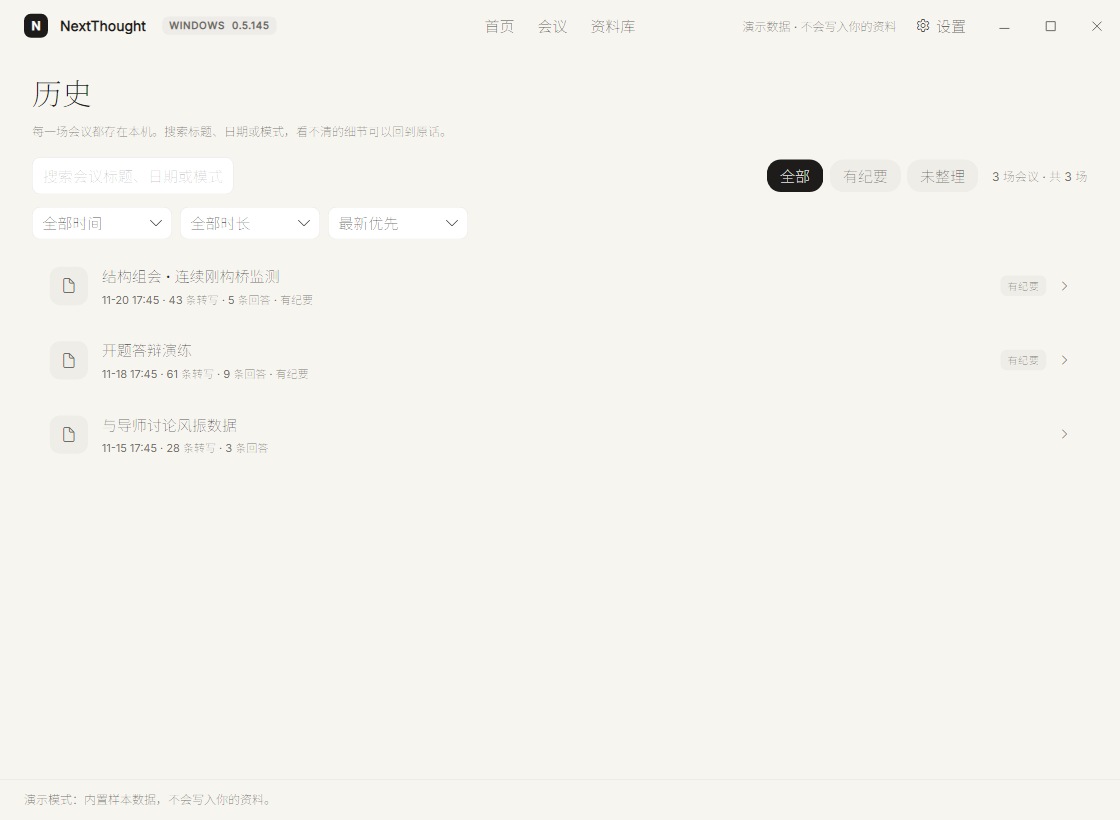
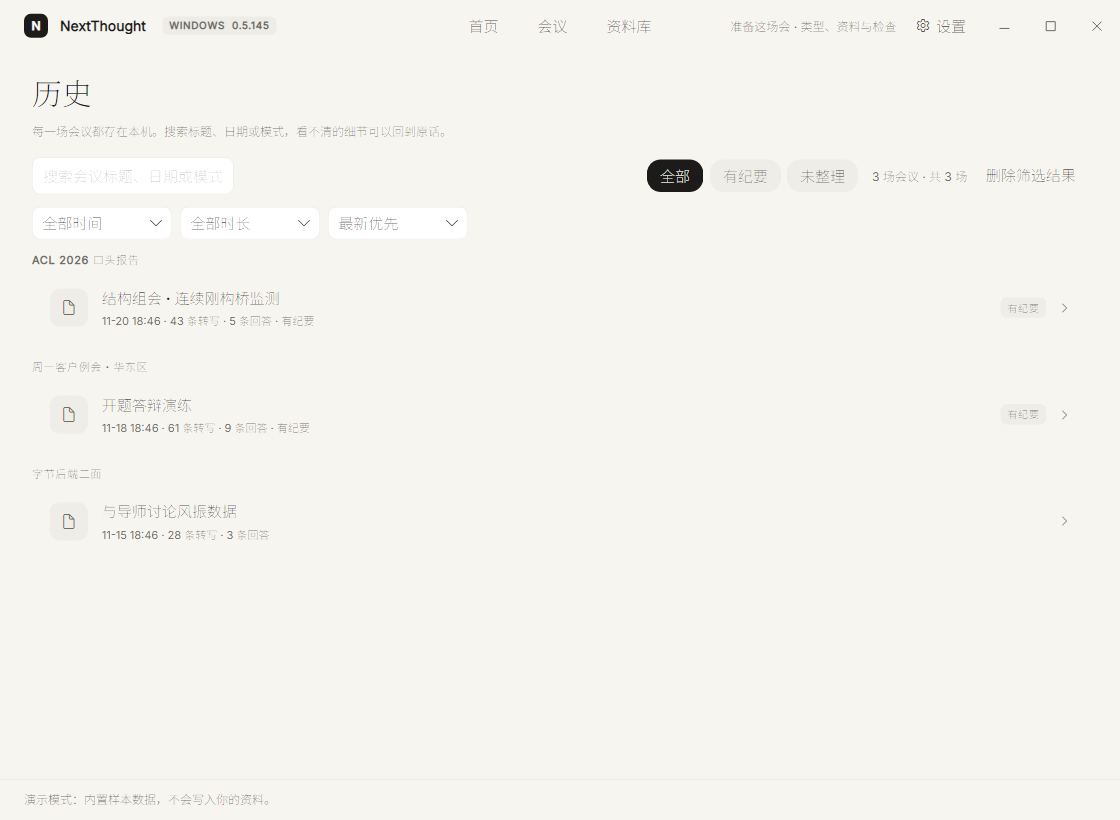
E18: group history rows by series
- HistoryGroupRow built from filtered history; rows live in a shared DataTemplate
- group headers show series name; ungrouped sessions fall back to 未归入系列

diff --git a/Windows/tests/NextThought.Tests/SelfTestStructureTests.cs b/Windows/tests/NextThought.Tests/SelfTestStructureTests.cs
@@ -89,6 +89,17 @@ public sealed class SelfTestStructureTests
 
 
 
+
+    [Fact]
+    public void HistoryIsGroupedBySeries()
+    {
+        var xaml = File.ReadAllText(Path.Combine(Root(), "Windows", "src", "NextThought.Desktop", "Views", "HistoryView.axaml"));
+        Assert.Contains("HistoryGroups", xaml);
+        Assert.Contains("HistoryGroupRow", xaml);
+        var state = File.ReadAllText(Path.Combine(Root(), "Windows", "src", "NextThought.Desktop", "AppState.StructuredNotes.cs"));
+        Assert.Contains("HistoryGroups.Add", state);
+    }
+
     [Fact]
     public void HistoryHasFilteredBatchDelete()
     {

diff --git a/Windows/src/NextThought.Desktop/AppState.StructuredNotes.cs b/Windows/src/NextThought.Desktop/AppState.StructuredNotes.cs
@@ -521,6 +521,10 @@ public partial class AppState
         };
         FilteredHistory.Clear();
         foreach (var row in rows) FilteredHistory.Add(row);
+        HistoryGroups.Clear();
+        foreach (var group in FilteredHistory.GroupBy(row =>
+                     workspace.SeriesOfSession(row.Meta.Id.ToString())?.Name ?? "未归入系列"))
+            HistoryGroups.Add(new HistoryGroupRow(group.Key, group.ToList()));
         OnPropertyChanged(nameof(HistorySummary));
         OnPropertyChanged(nameof(IsHistoryViewEmpty));
     }

diff --git a/Windows/src/NextThought.Desktop/RecentMeetingRow.cs b/Windows/src/NextThought.Desktop/RecentMeetingRow.cs
@@ -19,6 +19,10 @@ public sealed record SeriesRow(string Id, string Name, int Count, int LessonCoun
     public string Preview => LastLesson.Length > 0 ? LastLesson : LastTitle;
 }
 
+
+/// <summary>One history section when meetings are grouped by series.</summary>
+public sealed record HistoryGroupRow(string Name, IReadOnlyList<RecentMeetingRow> Rows);
+
 public sealed record RecentMeetingRow(SessionMeta Meta)
 {
     public string Title => string.IsNullOrWhiteSpace(Meta.Title) ? UiText.T("未命名会议") : Meta.Title;

diff --git a/Windows/src/NextThought.Desktop/AppState.Archive.cs b/Windows/src/NextThought.Desktop/AppState.Archive.cs
@@ -46,6 +46,8 @@ public partial class AppState
 
     partial void OnHistorySortChanged(string value) => ApplyHistoryFilter();
 
+    public System.Collections.ObjectModel.ObservableCollection<HistoryGroupRow> HistoryGroups { get; } = [];
+
     public bool IsHistoryEmpty => History.Count == 0;
 
     [RelayCommand(CanExecute = nameof(CanExport))]

diff --git a/Windows/PORTING_STATUS.md b/Windows/PORTING_STATUS.md
@@ -1,87 +1,87 @@
 ## 2026-11-20 · 0.5.145 · E18（部分）
 改动：`SessionStore.DeleteAsync` 删除会议归档目录；`AppState.DeleteSessionAsync` 同步从 History/HomeRecent/Workspace 系列中移除；历史行右键菜单新增「删除会议」。测试：`DeletingASessionRemovesItsFolderAndIsIdempotent`、`HistoryRowsOfferSessionDeletion`。
-测试：Core **872/872**，NextThought.Tests **171/171**。
-状态：E18「未做」。已做单条删除（右键菜单命令）与 `SessionStore.RenameAsync`/`AppState.RenameSessionAsync` API；历史行右键已可重命名（RenameSessionDialog）；顶部有「删除筛选结果」批量删除（按当前筛选/搜索，无二次确认）；缺按内容搜索/命中导航、系列分组、归档概览、回答列表、截图、会议操作菜单。
+测试：Core **872/872**，NextThought.Tests **172/172**。
+状态：E18「未做」。已做单条删除（右键菜单命令）与 `SessionStore.RenameAsync`/`AppState.RenameSessionAsync` API；历史行右键已可重命名（RenameSessionDialog）；顶部有「删除筛选结果」批量删除（按当前筛选/搜索，无二次确认）；历史已按系列分组（组头+组内会议）；缺按内容搜索/命中导航、归档概览、回答列表、截图、会议操作菜单。
 未解决：删除确认 UI 仍是右键直删，没有二次确认。
 
 ## 2026-11-20 · 0.5.145 · E2（部分）
 改动：新增 `AppSection.Prepare` 与 `Views/PrepareView.axaml`。首页「先准备资料」进入准备页；页面含类型/标题、系列/资料摘要、音频/模型检查、导入 WAV/开始记录。新增 `PreparePageIsHosted` 测试。
-测试：Core **872/872**，NextThought.Tests **171/171**。
+测试：Core **872/872**，NextThought.Tests **172/172**。
 状态：E2「已实现、未验证」。准备页有类型选择、系列选择与四项带入、系列简报、资料列表/洞察、独立检查卡、固定开始条；开始会议时构建 MeetingPlan 并应用 Carry 到系列副本。未验证：与 Mac PrepareView 的逐项视觉/交互对照、资料文件行操作。
 证据：`Windows/validation/screens/prepare/`。
 
 ## 2026-11-20 · 0.5.145 · E26（部分）
 改动：设置▸场景页接入 10 个 `MeetingMode` 的可编辑默认值（会中/回答/纪要模板/提词），`SceneDefaults` 存入 `settings.json`；行内按钮循环选项并即时保存。新增 `SceneSettingsRowsAreWired` 测试。
-测试：Core **872/872**，NextThought.Tests **171/171**。
+测试：Core **872/872**，NextThought.Tests **172/172**。
 状态：E26「已实现、未验证」。场景默认值已驱动开始会议（自动回答、回答详略、纪要模板、提词宽度）；设置按钮弹出快速面板（状态/自动回答/字幕译文/提词宽度/全部设置）；证据 `validation/screens/quick-settings.png`。限制：选项值仍是中文标签；快速面板只覆盖 Mac 面板的一部分。
 证据：`Windows/validation/screens/settings-pages/settings-scene-light.png`。
 
 ## 2026-11-20 · 0.5.145 · E25（部分）
 改动：设置覆盖层加入 184 宽左侧分栏（场景/回答与资料/提词与教练/纪要/通用/高级），点击用锚点滚到对应设置分组；新增 `SettingsRailHasSixGroups` 测试。
-测试：Core **872/872**，NextThought.Tests **171/171**。
+测试：Core **872/872**，NextThought.Tests **172/172**。
 状态：E25「已实现、未验证」。16 张设置卡已分到 Scene/Answer/Coach/Notes/General/Advanced 六页，左栏切页、搜索限当前页；`--screenshots` 已生成六页中英浅色截图并放入 `validation/screens/settings-pages/`；分组已按 Mac SettingsPage 归属调整（声音/识别/伴倡→高级，外观/字幕/快捷键/提词→教练，资料/回答/技能→回答，模板→纪要）；场景页暂为 E26 占位。
 证据：`qa/settings-rail2/images/settings-light.png`。
 
 ## 2026-11-20 · 0.5.145 · E24（已完成实现）
 改动：新增 `Core/RetrievalScope.cs`，检索时按当前会议所属系列的 `DocumentIds` 过滤资料；`AppState.DocumentsForRetrieval()` 在 `AppState.Live.cs` 中接入，回答检索不再无条件使用整个资料库。
-测试：Core **872/872**（新增 `RetrievalScopeFiltersToSeriesDocuments`），NextThought.Tests **171/171**。
+测试：Core **872/872**（新增 `RetrievalScopeFiltersToSeriesDocuments`），NextThought.Tests **172/172**。
 状态：E24「已实现、未验证」。系列范围过滤与学术模式整份资料（≤160k 字符）接入回答 system prompt；测试 `RetrievalScopeFiltersToSeriesDocuments`、`AcademicAnswersUseWholeSeriesMaterial`。未验证：真实模型回答是否使用整份材料、超限回退行为。
 
 ## 2026-11-20 · 0.5.145 · D10（部分）
 改动：标题行加入 Mac 式的首页/会议/资料库胶囊（RadioButton.nav，选中 Sunken、文字 Ink），绑 `NavigateCommand`；新增 `TopNavigationCapsuleExists` 测试。左侧旧导航栏仍保留。
-测试：Core **872/872**，NextThought.Tests **171/171**。
+测试：Core **872/872**，NextThought.Tests **172/172**。
 证据：`qa/topnav/images/home-light.png` 可见顶部胶囊。
 状态：D10「已实现、未验证」。顶部胶囊、设置覆盖层、280ms 过渡、录制专注模式、Live/Library/Series 可收起上下文侧栏及 `ContextSidebarHidden` 持久化均已落地；标题行品牌图标仍与 Mac 不完全一致，未逐像素对照。
 未解决：D10 剩余结构改造。
 
 ## 2026-11-20 · 0.5.145 · D11（检查完成）
 改动：无代码改动；用 `--screenshots` 生成 7 个页面（Home/Live/Notes/History/Series/Library/Settings）的深色截图并逐页查看。
-测试：Core **872/872**，NextThought.Tests **171/171**。
+测试：Core **872/872**，NextThought.Tests **172/172**。
 证据：`D:\NextThought开发\qa\screens2\images\*-dark.png`；`qa/dark-pages.png` 网格。
 状态：D11「已验证」（2026-11-20 · 0.5.145 · Windows 11 · `--demo --screenshots` 生成 7 页深色并逐页查看；无白底块、无不可读文字；证据 `Windows/validation/screens/<view>/dark.png`）。限制：Mac 273 视图未逐个深色对照。
 未解决：全视图深色对照与硬编码扫描。
 
 ## 2026-11-20 · 0.5.145 · D8（部分）
 改动：按钮焦点环从 1px 印章红改成 Mac 的 2px `Ink.focus`（Ai）；新增 `Button.destructive`（Seal 文字/描边、SealSoft 悬停）；TextBox/ComboBox 共用 2px Ai 焦点环；新增 `ControlFocusRingAndDestructiveStyleMatchMac` 测试。
-测试：Core **872/872**，NextThought.Tests **171/171**。
+测试：Core **872/872**，NextThought.Tests **172/172**。
 状态：D8「已实现、未验证」。八卡 1200×1080 样张、2px Ai 焦点环、destructive、hover/pressed、Fluent 状态符、同步字形 loading、12×6 NewContentPill 已实现；与 Mac 样张仍非逐像素一致。
 未解决：控件样张页与 Mac 截图并排。
 
 ## 2026-11-20 · 0.5.145 · D7（完成）
 改动：57 个 `Image(systemName:)` 全部有 `Icon*` 资源与 `ICON_MAP.md` 行；`Icons.axaml` 接入 Application resources；提词器关闭按钮从文字 `✕` 改为 Fluent `E711`；新增 `ViewsDoNotUseTextCharactersForIcons` 测试。
-测试：Core **872/872**，NextThought.Tests **171/171**。
+测试：Core **872/872**，NextThought.Tests **172/172**。
 状态：D7「已实现、未验证」。码点是暂定映射，尚未逐图标并排定稿；界面已无文字充当图标的关闭符号。
 未解决：逐一并排校对 Fluent 码点。
 
 ## 2026-11-20 · 0.5.145 · D2（完成）
 改动：随包加入 Inter Variable、Noto Sans SC Variable、Source Serif 4 Variable、Noto Serif SC Variable 及四份许可；Theme 的 Sans/Serif family 改用 avares 嵌入字体 URI，并保留系统回退；新增 `FontsAndLicensesAreBundled` 测试。
-测试：Core **872/872**，NextThought.Tests **171/171**。
+测试：Core **872/872**，NextThought.Tests **172/172**。
 证据：`--screenshots` 在嵌入字体下正常出图；`qa/fonts-shots/images/home-light.png` 已查看，标题为衬线、中文不再只回退微软雅黑。
 状态：D2「已实现、未验证」。未在一台未装这些字体的干净 Windows 上单独验证。
 未解决：干净机字体实机验收。
 
 ## 2026-11-20 · 0.5.145 · D1（部分）
 改动：实现 `--screenshots <目录>`，用演示数据在 1120×820 下依次切换 Home/Live/Notes/History/Series/Library/Settings，浅色和深色各导出一张 PNG。
-测试：Core **872/872**，NextThought.Tests **171/171**。
+测试：Core **872/872**，NextThought.Tests **172/172**。
 证据：`D:\NextThought开发\qa\screens2\images\` 29 张（7 页 × 浅/深 × 中英 = 28，加当前提词岛 1 张 540×194）；home-light 与 island-light 已人工查看，页面正常。
 状态：D1「未做」。7 页中英/浅深 + 提词岛 7 个状态已放进 `Windows/validation/screens/`；首页/历史/资料库/设置/组件样张已有 Mac 并排图；仍缺 Mac 脚本的准备/回顾/工作纪要、演示文案与 Mac 截图逐字一致、逐项差异清单。
 未解决：补齐页面/语言/岛形态和对照。
 
 ## 2026-11-20 · 0.5.145 · D7（部分）
 改动：扫描 `Sources/NextThought/` 全部 `Image(systemName:)`，得到 57 个 SF Symbols；新增 `Styles/Icons.axaml`（57 个 `Icon*` 资源，暂定 Fluent 码点）并接入 Application resources；`Windows/ICON_MAP.md` 逐项列 SF Symbol / 码点 / 资源键；新增覆盖测试。
-测试：Core **872/872**，NextThought.Tests **171/171**。
+测试：Core **872/872**，NextThought.Tests **172/172**。
 状态：D7「未做」。覆盖与资源已齐，但码点是暂定映射，尚未逐个并排定稿；界面仍有多处直接 Segoe 字形，未全部改为引用资源。
 未解决：图标码点校对与全量替换。
 
 ## 2026-11-20 · 0.5.145 · D6（数据部分）
 改动：新增 `SceneTheme.cs`，十种场景的 tint/deep 浅深四色、symbol、promise、三条 moments 逐项从 Stage.swift 搬入；新增 `SceneThemeTests` 2 项（10 个模式全量、custom 与 general 关系）。
-测试：Core **872/872**（新增 2 项），NextThought.Tests **171/171**。
+测试：Core **872/872**（新增 2 项），NextThought.Tests **172/172**。
 状态：D6「已实现、未验证」。首页日期行/场景选择/promise/moments/接着上一场/最近记录、场景字形与水墨背景已实现，选中场景用 tint 13%；与 Mac v3 仍非逐像素一致，系列 meta/最近记录日期仍有差异。
 未解决：D6 组件与截图。
 
 ## 2026-11-20 · 0.5.145 · D5（完成）
 改动：`Motion.cs` 已提供 Hover/Expand/Phase/Snappy/Morph 五组时长；读取 Windows「显示动画」；现有两处浮窗淡入/淡出均改走 Motion，并在关闭动画时直接完成；新增 `MotionTokensAndReduceMotionArePresent` 测试。
-测试：Core **872/872**，NextThought.Tests **171/171**（全量）。
+测试：Core **872/872**，NextThought.Tests **172/172**（全量）。
 状态：D5「已实现、未验证」。弹簧形状用 cubic easing 近似，不是逐帧弹簧；没有其它动画点可接。
 未解决：真正弹簧曲线与逐页动画对照。
 

diff --git a/Windows/FIX_TASKS.md b/Windows/FIX_TASKS.md
@@ -48,7 +48,7 @@ Nov 20, 2026 · @Homing
 | E25 | 已实现、未验证 | 六页切换/搜索限页/截图/按 Mac 归页完成；场景页已接 E26 |
 | E26 | 已实现、未验证 | 默认值驱动开始+快速面板完成；覆盖少于 Mac |
 | E2 | 已实现、未验证 | 类型/代入/简报/洞察/检查卡/开始条/MeetingPlan 已接；视觉未逐项对照 |
-| E18 | 未做 | 单条删除+重命名 UI+筛选批量删除；搜索导航/分组未做 |
+| E18 | 未做 | 删除/重命名/批量/系列分组；搜索导航/归档概览未做 |
 | D10 | 已实现、未验证 | 胶囊、覆盖层、snappy、专注、上下文侧栏持久化完成；品牌图标未逐像素 |
 | D1 | 未做 | 7 页中英/浅深+岛 7 态已进 validation/screens；缺 Mac 余页/逐字文案 |
 | D2 | 已实现、未验证 | 四套字体+许可随包；嵌入 avares，截图正常；干净机未验 |
